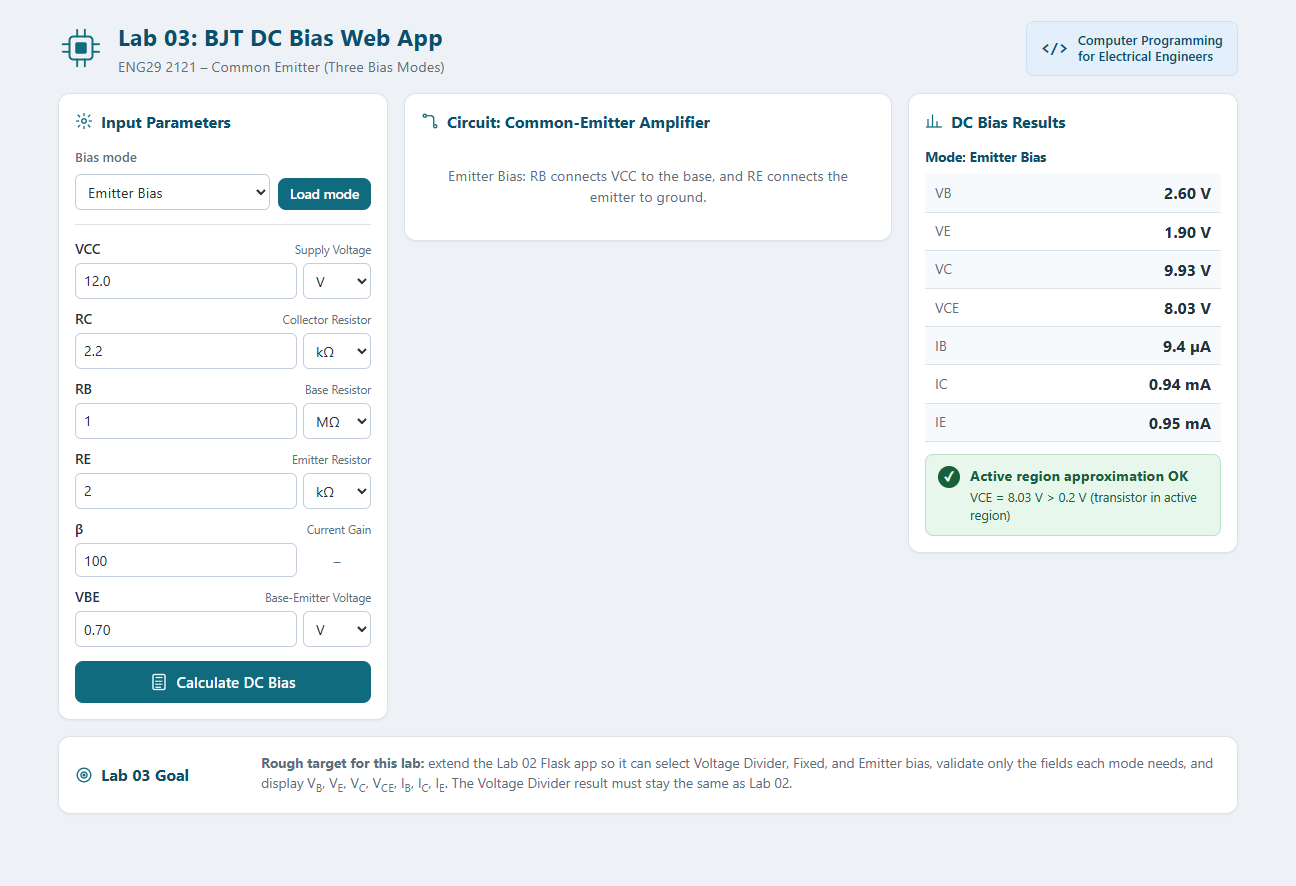
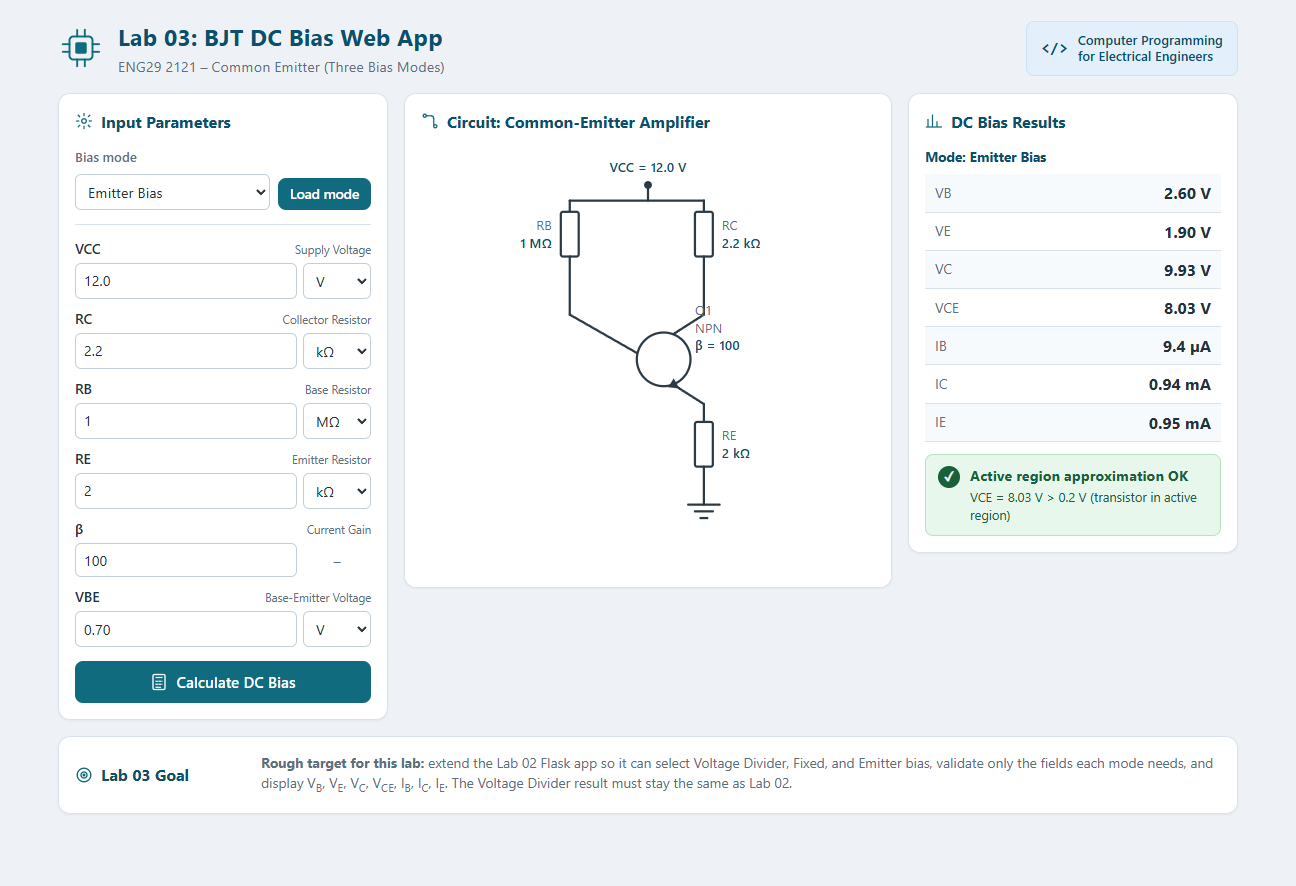
docs: note per-mode schematics and refresh screenshots

diff --git a/docs/validation.md b/docs/validation.md
@@ -62,3 +62,18 @@ Fixed Bias, RB=1 MΩ, RC=22 kΩ (กระแสสะสมสูงจน VCE 
 - ผลที่เห็น: VC −12.86 V · VCE −12.86 V และขึ้นคำเตือน
   “Forward Active model may not apply … IB ≤ 0 or VCE < 0.2 V” หนึ่งครั้ง พร้อมค่า IB/VCE
 - สถานะ: PASS (OpenCode Browser)
+
+### ตรวจเพิ่ม: schematic ของแต่ละโหมด
+
+เดิมโหมด Fixed/Emitter แสดงเพียงข้อความสั้น จึงเพิ่ม SVG ของแต่ละโหมด
+และตรวจในเบราว์เซอร์ว่ารูปตรงกับวงจรและค่าที่กรอก
+
+| โหมด | สิ่งที่เห็นบนรูป | สถานะ |
+|---|---|---|
+| Divider | R1, R2, RC, RE + ค่าที่กรอก | PASS |
+| Fixed | RB จาก VCC ลงเบส, RC ลงคอลเลกเตอร์, อีมิตเตอร์ลงกราวด์ตรง (ไม่มี R2/RE) | PASS |
+| Emitter | RB จาก VCC ลงเบส, RC ลงคอลเลกเตอร์, RE จากอีมิตเตอร์ลงกราวด์ (ไม่มี R2) | PASS |
+
+- ค่าบนรูปเปลี่ยนตามที่กรอก เช่น RB 1 MΩ และ RE 2 kΩ ใน A4
+- หน้า error (RB=0) ยังแสดงรูปของโหมด Fixed
+- screenshot ที่อัปเดตแล้ว: `docs/images/lab03-a4-emitter.png`, `docs/images/lab03-a5-rb-error.png`
